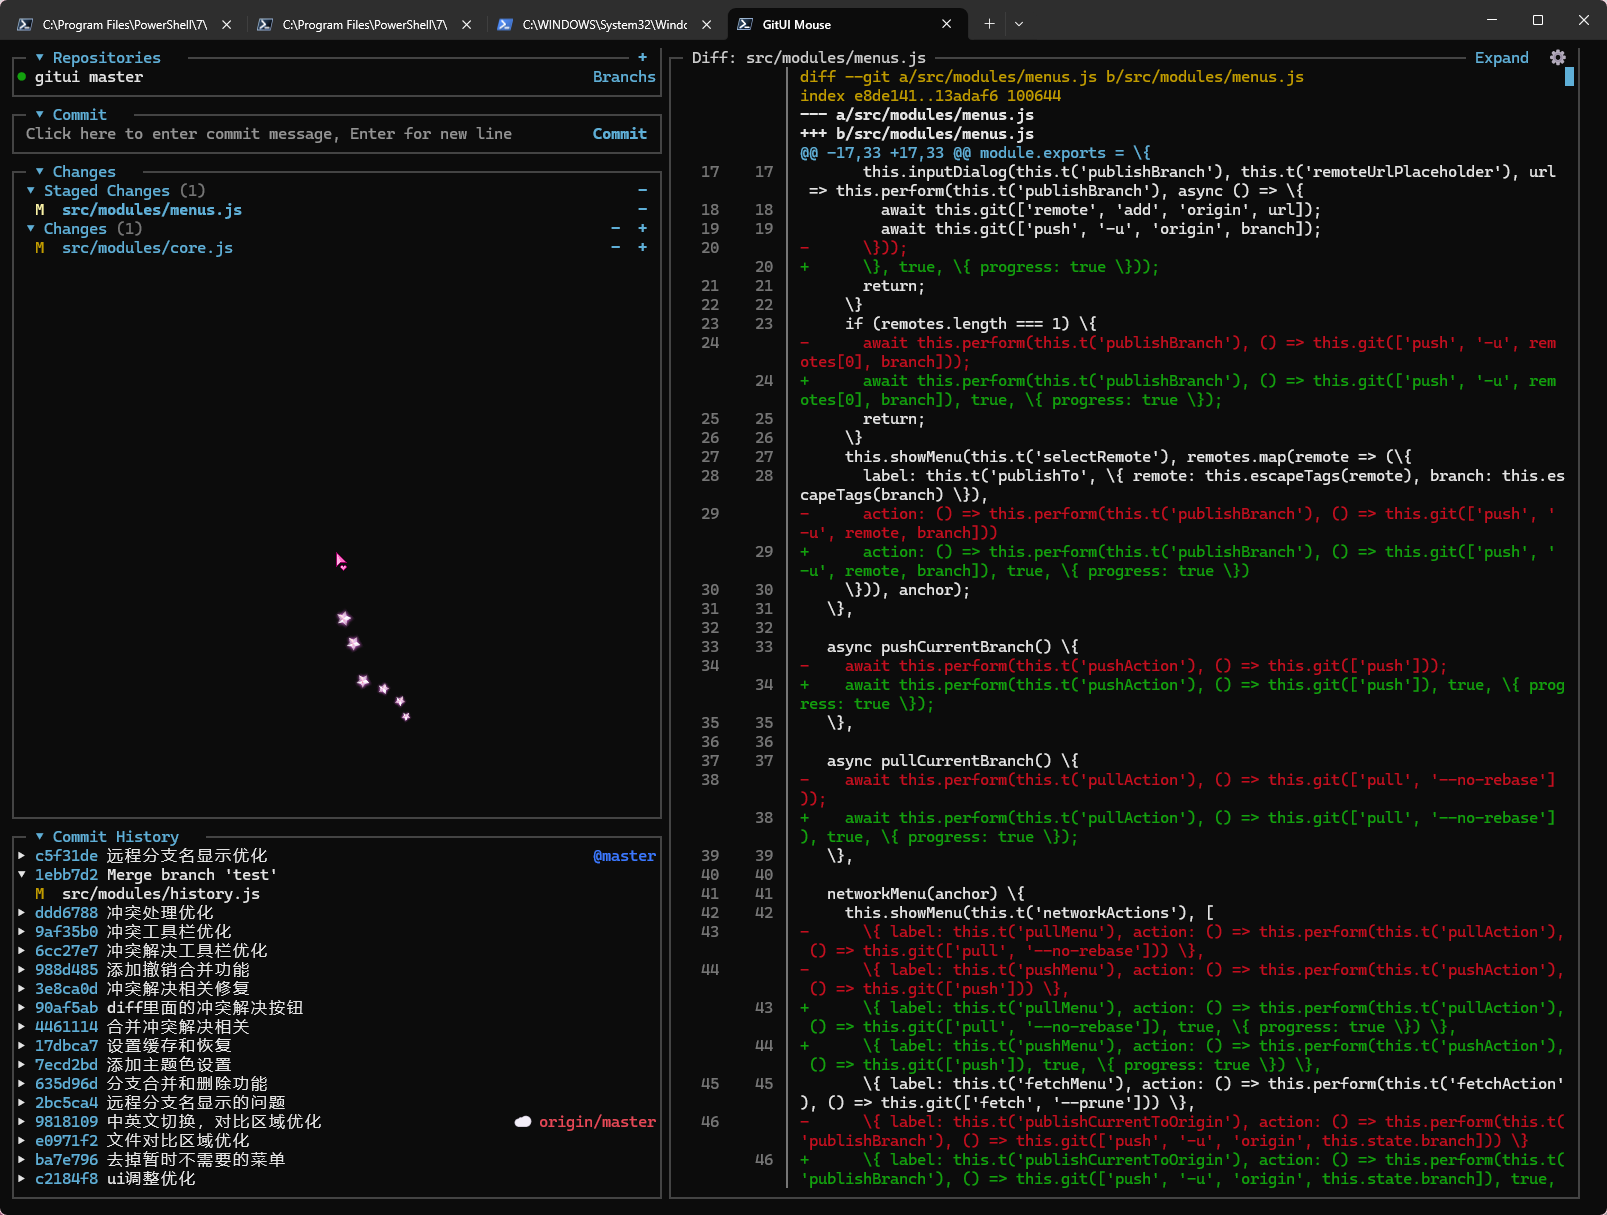
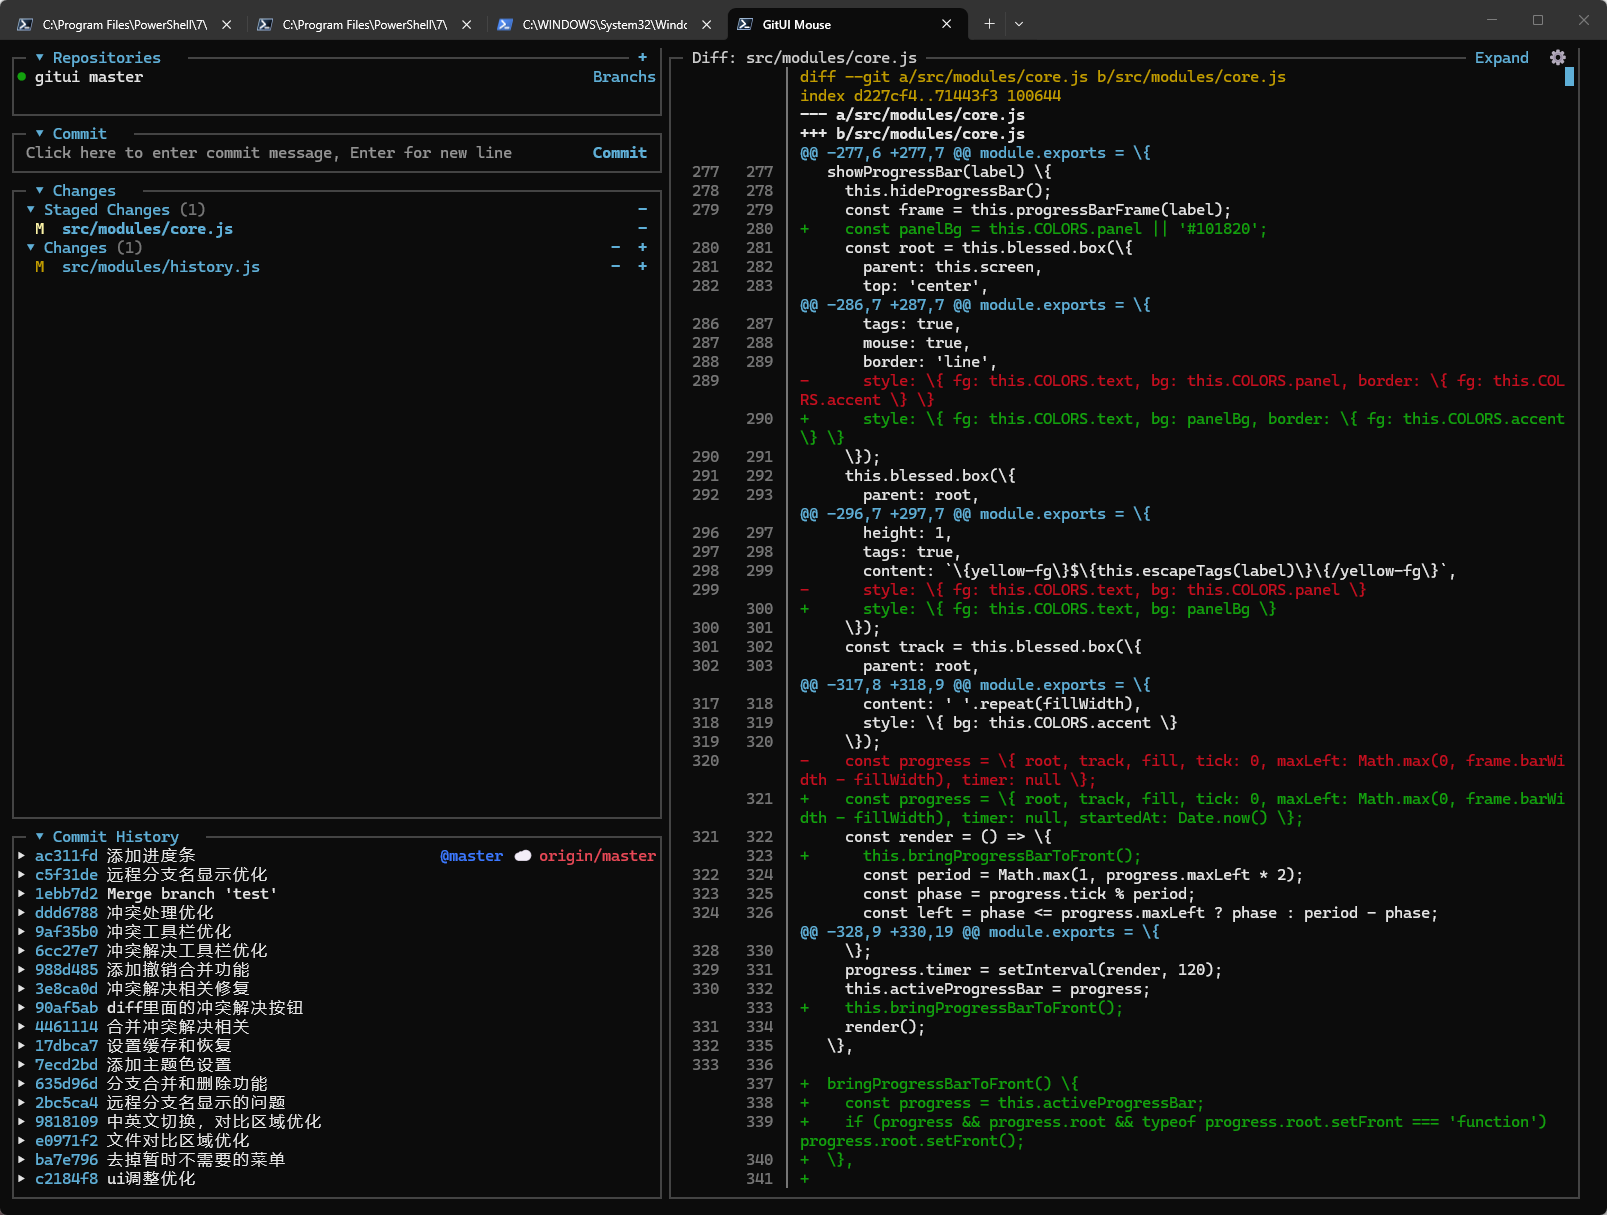
进度条优化

diff --git a/src/modules/core.js b/src/modules/core.js
@@ -277,6 +277,7 @@ module.exports = {
   showProgressBar(label) {
     this.hideProgressBar();
     const frame = this.progressBarFrame(label);
+    const panelBg = this.COLORS.panel || '#101820';
     const root = this.blessed.box({
       parent: this.screen,
       top: 'center',
@@ -286,7 +287,7 @@ module.exports = {
       tags: true,
       mouse: true,
       border: 'line',
-      style: { fg: this.COLORS.text, bg: this.COLORS.panel, border: { fg: this.COLORS.accent } }
+      style: { fg: this.COLORS.text, bg: panelBg, border: { fg: this.COLORS.accent } }
     });
     this.blessed.box({
       parent: root,
@@ -296,7 +297,7 @@ module.exports = {
       height: 1,
       tags: true,
       content: `{yellow-fg}${this.escapeTags(label)}{/yellow-fg}`,
-      style: { fg: this.COLORS.text, bg: this.COLORS.panel }
+      style: { fg: this.COLORS.text, bg: panelBg }
     });
     const track = this.blessed.box({
       parent: root,
@@ -317,8 +318,9 @@ module.exports = {
       content: ' '.repeat(fillWidth),
       style: { bg: this.COLORS.accent }
     });
-    const progress = { root, track, fill, tick: 0, maxLeft: Math.max(0, frame.barWidth - fillWidth), timer: null };
+    const progress = { root, track, fill, tick: 0, maxLeft: Math.max(0, frame.barWidth - fillWidth), timer: null, startedAt: Date.now() };
     const render = () => {
+      this.bringProgressBarToFront();
       const period = Math.max(1, progress.maxLeft * 2);
       const phase = progress.tick % period;
       const left = phase <= progress.maxLeft ? phase : period - phase;
@@ -328,7 +330,17 @@ module.exports = {
     };
     progress.timer = setInterval(render, 120);
     this.activeProgressBar = progress;
+    this.bringProgressBarToFront();
     render();
+  },
+
+  bringProgressBarToFront() {
+    const progress = this.activeProgressBar;
+    if (progress && progress.root && typeof progress.root.setFront === 'function') progress.root.setFront();
+  },
+
+  async waitForUiRender() {
+    await new Promise(resolve => setImmediate(resolve));
   },
 
   hideProgressBar() {
@@ -338,6 +350,15 @@ module.exports = {
     if (progress.timer) clearInterval(progress.timer);
     this.destroyElement(progress.root);
     this.screen.render();
+  },
+
+  async hideProgressBarAfterMinimum(minimumMs = 0) {
+    const progress = this.activeProgressBar;
+    if (!progress) return;
+    const elapsed = Date.now() - (progress.startedAt || Date.now());
+    const remaining = Math.max(0, minimumMs - elapsed);
+    if (remaining > 0) await new Promise(resolve => setTimeout(resolve, remaining));
+    if (this.activeProgressBar === progress) this.hideProgressBar();
   },
 
   reportUnhandledError(error) {
@@ -441,7 +462,10 @@ module.exports = {
     if (this.state.busy) return undefined;
     try {
       this.setBusy(true, label);
-      if (options.progress) this.showProgressBar(label);
+      if (options.progress) {
+        this.showProgressBar(label);
+        await this.waitForUiRender();
+      }
       const result = await operation();
       if (refresh) await this.refreshRepo();
       if (!options.silentSuccess) this.toast(this.t('completed', { label }), this.COLORS.green);
@@ -450,7 +474,7 @@ module.exports = {
       this.toast(this.t('failed', { label, message: error.message }), this.COLORS.red);
       return undefined;
     } finally {
-      if (options.progress) this.hideProgressBar();
+      if (options.progress) await this.hideProgressBarAfterMinimum(options.progressMinimumMs || 700);
       this.setBusy(false);
     }
   },

diff --git a/src/modules/history.js b/src/modules/history.js
@@ -136,16 +136,16 @@ module.exports = {
     const branchNames = remoteBranches.filter(name => name.includes('/'));
     if (!branchNames.length) return branchNames;
 
-    const upstream = String(this.state.upstream || '').trim();
-    if (upstream && branchNames.includes(upstream)) return [upstream];
-
     const branch = String(this.state.branch || '').trim();
     if (!branch || this.isDetachedBranchName(branch)) return branchNames;
+
+    const upstream = String(this.state.upstream || '').trim();
+    if (upstream && branchNames.includes(upstream)) return [upstream];
 
     const currentBranchRemotes = branchNames.filter(name => name.endsWith(`/${branch}`));
     if (currentBranchRemotes.length) return currentBranchRemotes;
 
-    return branchNames;
+    return [];
   },
 
   remoteBranchMarker(remoteBranches, isLatestCommit = false) {
